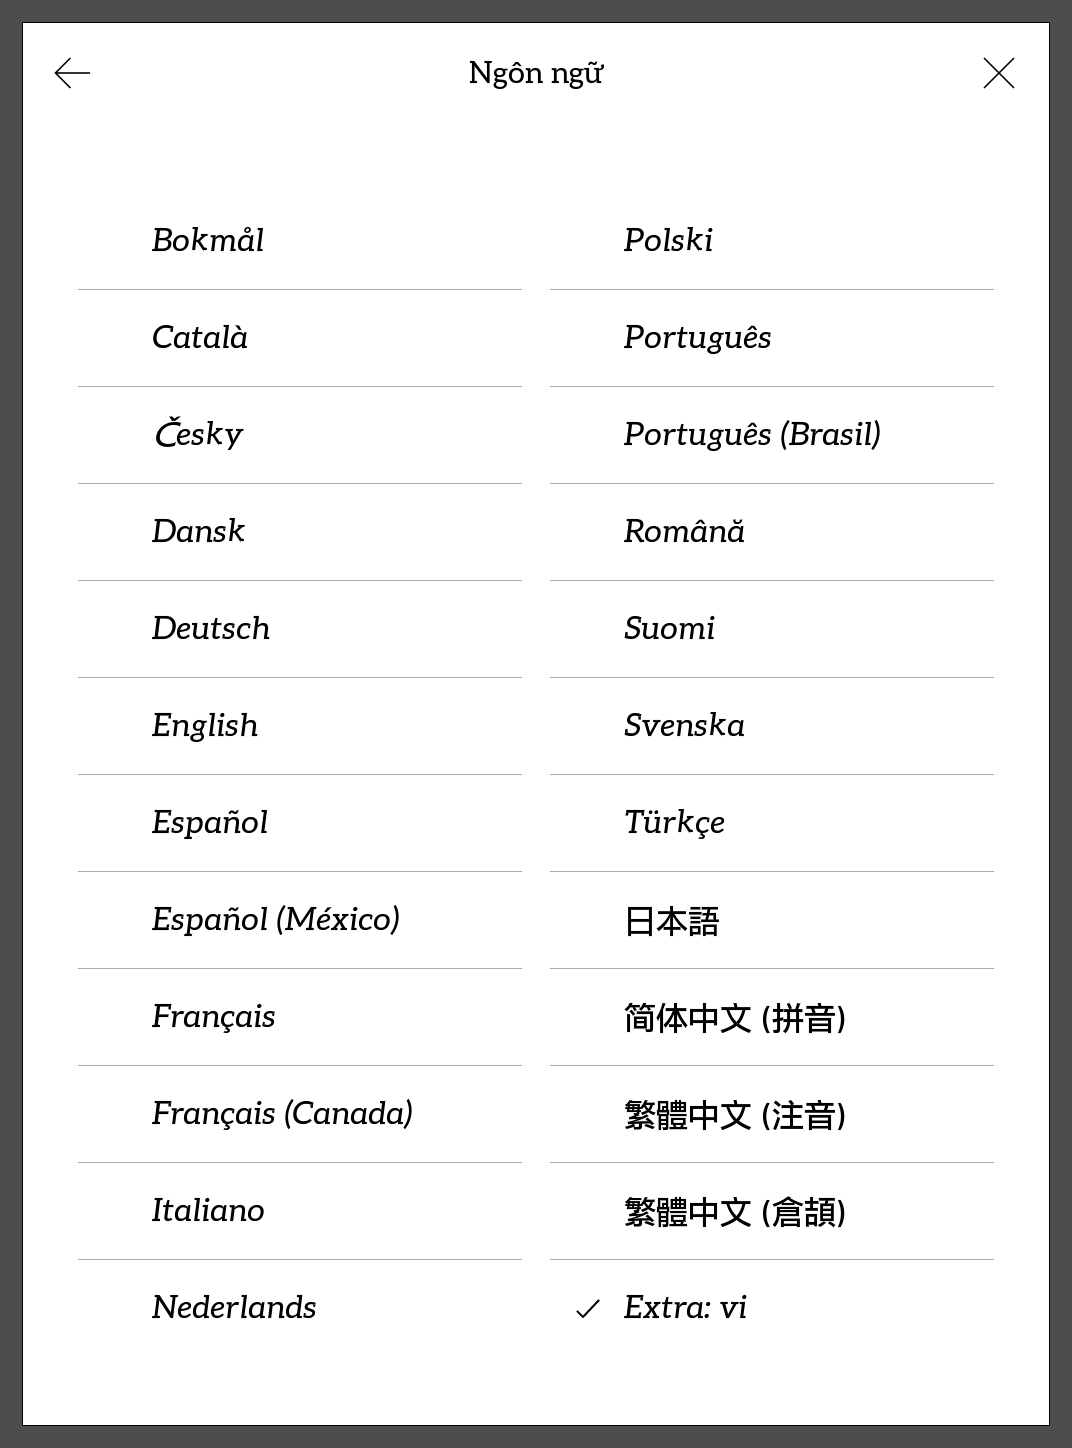
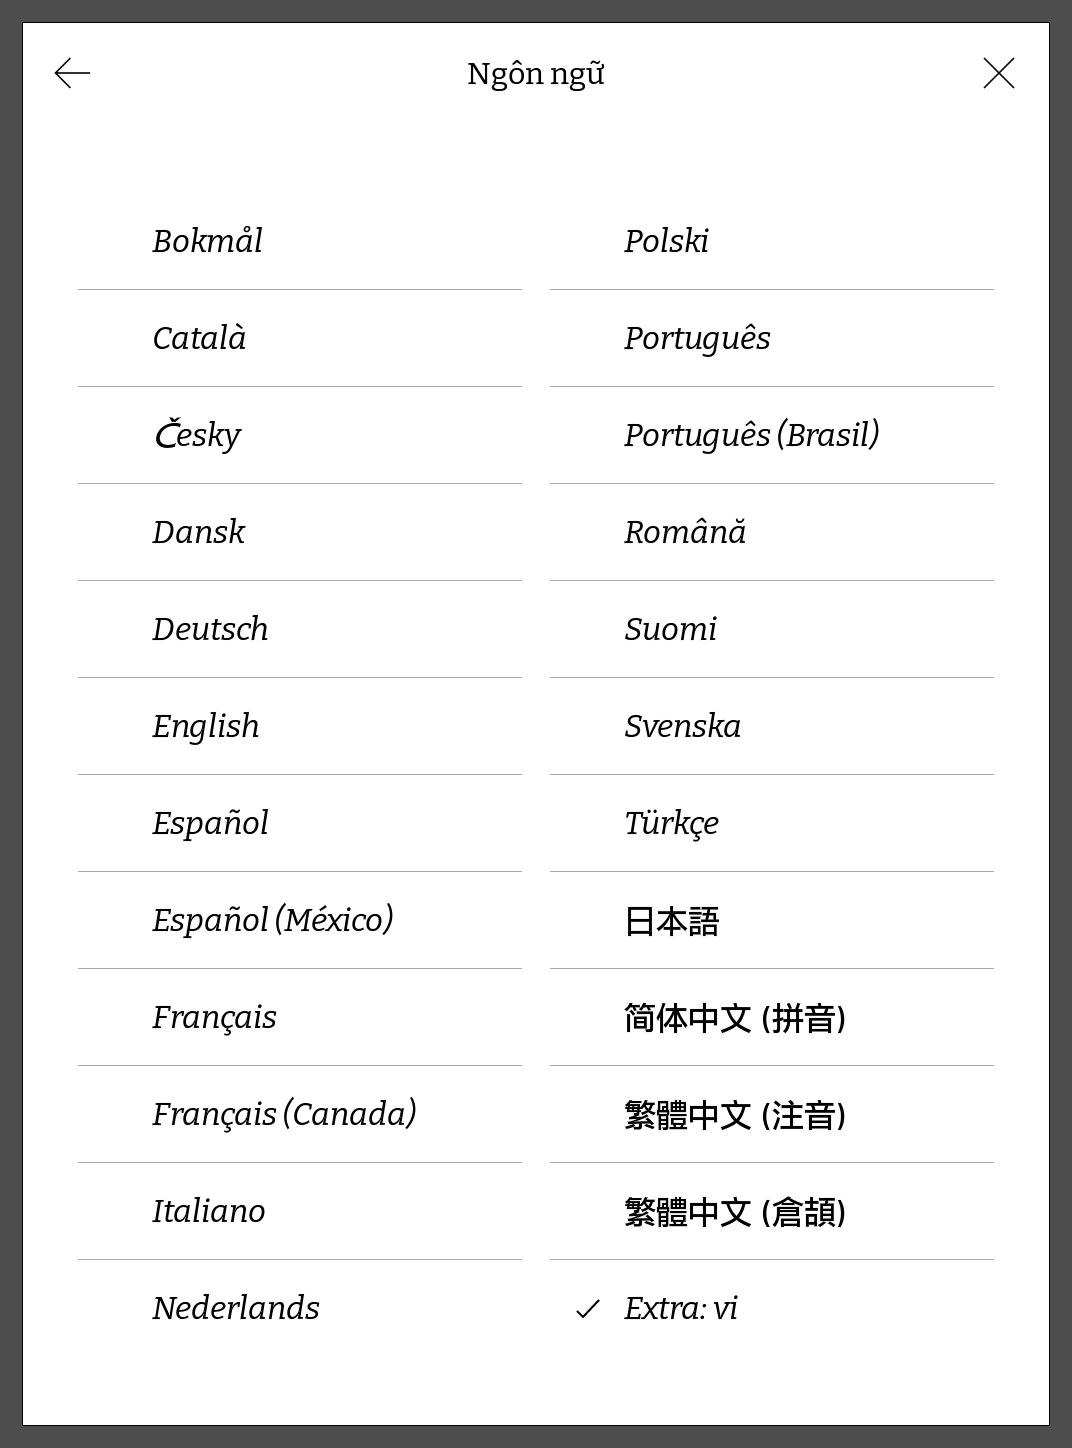
chore: update screenshots

diff --git a/README.md b/README.md
@@ -94,7 +94,7 @@ Bản cài đặt này sẽ thay đổi các font mặc định của máy (khô
 
 |                       | Font hệ thống                             | Font mới                                                             |
 | ---------------------:| ----------------------------------------- | -------------------------------------------------------------------- |
-| **Serif**             | Rakuten Serif<br>Georgia (firmware cũ)    | [Aleo](https://fonts.google.com/specimen/Aleo)                       |
+| **Serif**             | Rakuten Serif<br>Georgia (firmware cũ)    | [Bitter](https://fonts.google.com/specimen/Bitter)                   |
 | **Sans Serif**        | Rakuten Sans<br>Avenir Next (firmware cũ) | [Roboto](https://fonts.google.com/specimen/Roboto)                   |
 | **Monospace**         | Không hỗ trợ (*)                          | [Source Code Pro](https://fonts.google.com/specimen/Source+Code+Pro) |
 | **Hỗ trợ tiếng Việt** | ✗                                         | ✓                                                                    |
